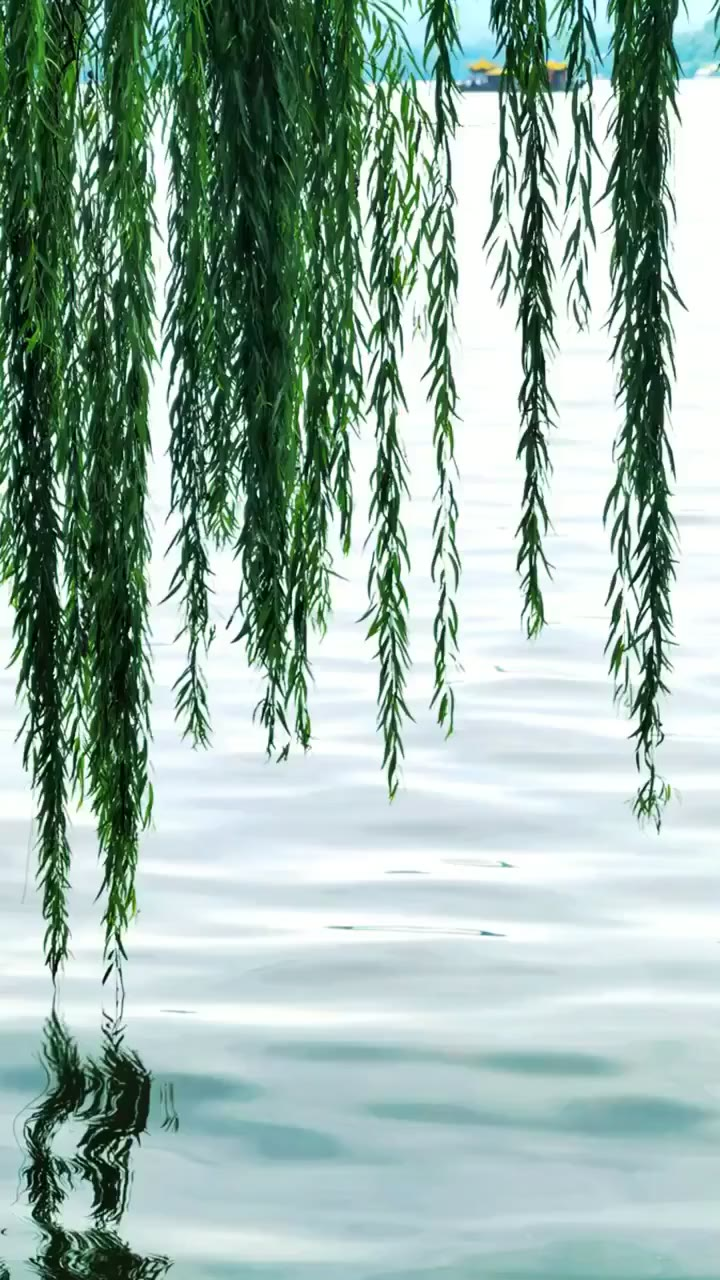
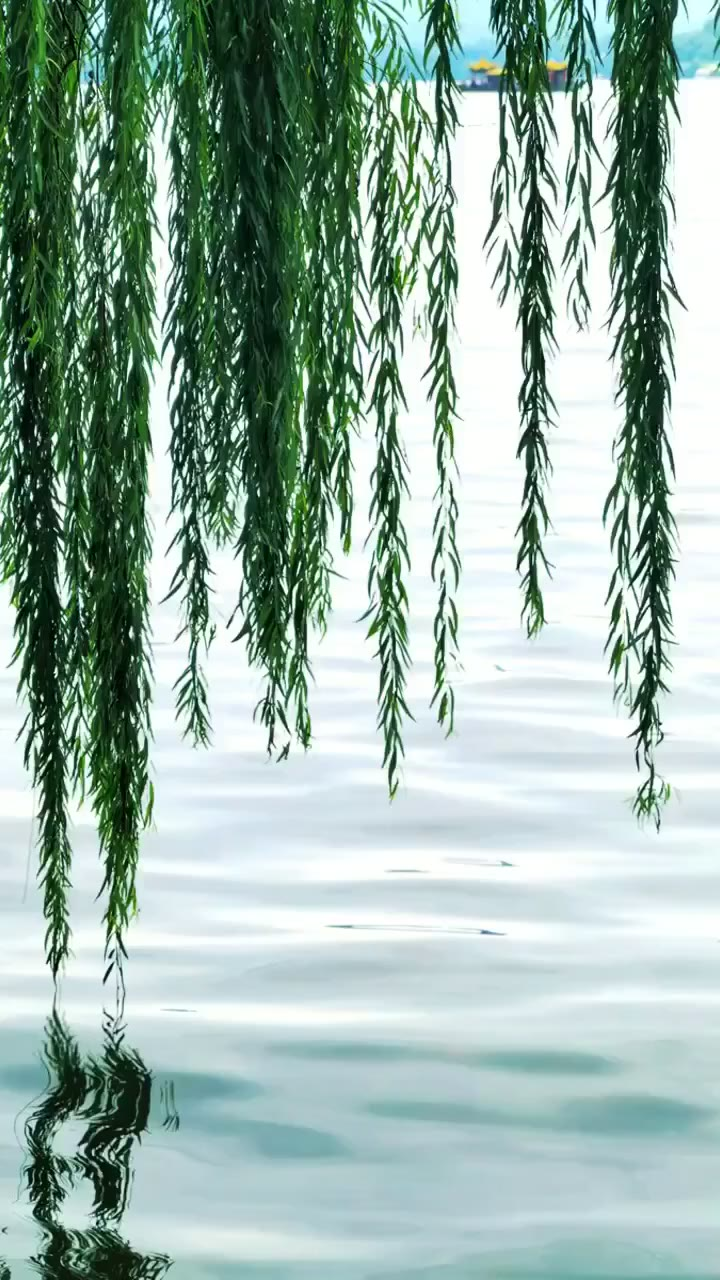
整理成片观感改动说明。
记录实拍替换、转场和连续运镜的取舍，并更新验收封面。抽帧图不入库。

diff --git a/IMPROVEMENTS.md b/IMPROVEMENTS.md
@@ -1,0 +1,134 @@
+# 本版本改进说明（相对 20260913 交接版）
+
+更新时间：2026-09-27
+打包人：浙里成片 + MPT 引擎合流小组
+
+本包 = `zhejiang-tourism-aigc-complete-20260913` 全部内容 + 以下改进。`.env` 已包含可用的 DeepSeek 与 Pexels 配置（见文末安全提醒）。
+
+## 改进清单
+
+### 1. 浙江文旅知识库（新增，本项目的差异化核心）
+
+- 新增 `data_zhejiang_kb/`：46 个杭州文旅实体、210 条经联网核查的事实
+  （景区/非遗/美食/节庆/传说/名人六类，含事实核查质量记录），
+  每个实体带 `keywords_en`（精准英文素材检索词）与 `imagery`（画面意象）。
+- 新增 `backend/app/services/knowledge.py`（纯标准库，零第三方依赖），
+  同一份语料服务两个下游方向：
+  - **管画面** `english_query()`：镜头描述 → 精准英文检索词；
+  - **管文案** `build_generation_context()`：创作参数 → 经核查的事实参考块。
+
+### 1.1 知识注入（脚本生成阶段用上知识库）
+
+此前知识库只服务素材检索，脚本阶段仍只有"不得编造"的约束而没有可用素材，
+成片文案因此**文采尚可但细节空泛**——没有可核实的年代、人物、典故。
+本次打通另一半：
+
+- `build_generation_context()` 按 `city/landmark/theme/culture/festival`
+  检索，字段权重分级（地标 4.0 > 文化线索 2.0 > 节庆 1.5 > 主题 1.0），
+  命中最具体的别名优先（"虎跑公园"不会被宽泛的"西湖"抢走）；
+  渲染成不超过 1500 字的参考块，附 4 条使用规则（优先用事实、不编造、
+  事实配画面、参考画面提示）。
+- `OpenAICompatibleLLMProvider` 注入该参考块；语料缺失、路径异常或读取出错时
+  **静默降级为空串**，prompt 退回原有约束，绝不阻断脚本生成。
+- **城市过滤是硬约束**：用户选了宁波但语料只有杭州时，退回城市背景资料，
+  而不是注入杭州事实——错误的权威事实比没有事实更糟。
+
+**A/B 实测**（deepseek-chat，杭州/西湖/春日城市漫游，同参数各 4 次采样）：
+
+| 指标 | A 无注入 | B 有注入 |
+|---|---|---|
+| 知识实体命中 | 4.75 | 6.25 |
+| 具体名词使用 | 2.5 | 17.5 |
+| 事实性表述 | 2.25 | 13.5 |
+
+分镜层面做到了"一条事实配一个画面"：南宋西湖十景配苏堤镜头、
+三潭印月石塔配湖心镜头、世界遗产名录配收尾镜头。
+复现脚本：`python scripts/kb_injection_eval.py --runs 4`。
+
+**评测口径提醒**：不要用"四位年份出现次数"做指标——模型更常用
+"天启元年""北宋苏轼元祐四年"这类中式纪年，只匹配阿拉伯数字会严重低估
+注入效果（实测会得出"0 命中"的错误结论）。
+
+### 2. Pexels 素材检索修复与增强（`providers/media.py`）
+
+- **修复 Cloudflare 拦截**：Pexels 搜索与图片下载请求补浏览器 User-Agent，
+  修复 `HTTP 403 error code 1010`（此前素材会静默回退离线占位图）。
+- **检索词精准化**：`PexelsAssetProvider` 优先使用知识库给出的英文检索词
+  （如"雷峰塔"镜头 → `Leifeng Pagoda sunset`），中文描述仅作回退。
+  实测"雷峰塔"镜头从无关野湖变为真雷峰塔西湖实景。
+
+### 3. LLM 读超时可配置（`providers/llm.py` + `config.py`）
+
+- 读超时从硬编码 45 秒改为 `LLM_TIMEOUT_SECONDS` 环境变量（默认 180）。
+  中转/慢通道生成 6 镜分镜常超 45 秒，此前必然超时回退离线。
+
+### 4. 窄屏导航修复（`frontend/styles.css`）
+
+- 窗口宽度 ≤1000px 时侧边导航原本被 `display:none` 隐藏且无替代入口，
+  导致窄窗口（应用内浏览器/分屏）无法进入"作品档案"。已改为顶部横向排列。
+
+### 5. 情绪匹配背景音乐（新增）
+
+- 曲库：MPT 自带 29 首背景音乐已拷入 `runtime/music/`，配合
+  `mood_manifest.json` 情绪清单（侧边工作线标注：calm 平静/grand 恢弘/
+  ancient 古风/poetic 诗意 四类）。
+- `find_music_file` 按 `music_mood` 自动匹配：舒缓→calm、热烈→grand、
+  雅致→ancient、轻快→poetic，同类别内随机选曲（每次成片配乐有变化）；
+  任务元数据新增 `music_file` 字段记录实际用曲。
+- 版权注意：该批音乐为 MPT 上游自带（README 标注来源 YouTube），比赛展示
+  可用，**正式对外发布前建议替换为明确授权的音乐**（放入 `runtime/music`
+  即可，命名不限；`无音乐` 选项可关闭 BGM）。
+- 之前版本的合成演示音垫（ambient_demo_synth.aac / bgm-*.aac）已移除。
+
+### 6. `.env` 已配好（开箱即用）
+
+- `LLM_BASE_URL=https://api.deepseek.com`、`LLM_MODEL=deepseek-chat`、
+  `LLM_API_KEY=已填写可用 key`；
+- `ASSET_PROVIDER=pexels` + `PEXELS_API_KEY=已填写`；
+- `MPT_ROOT` 指向同级 MoneyPrinterTurbo（可选，不部署不影响主流程）；
+- `MPT_TIMEOUT_SECONDS=600`（MPT 桥接链路实测需要较长超时）。
+
+## 快速启动
+
+```powershell
+Set-Location .\zhejiang-tourism-aigc
+# .env 已配好，如需更换 DeepSeek key 编辑 .env 的 LLM_API_KEY
+.\scripts\start.ps1
+# 浏览器打开 http://127.0.0.1:8787
+```
+
+流程：填表 → 生成脚本预览（真 DeepSeek 分镜，**已注入经核查的杭州文旅事实**）
+→ 编辑每个镜头 → 生成视频（自动 Pexels 真实素材 + Edge TTS 晓晓配音 +
+情绪匹配 BGM + FFmpeg 合成）。
+
+## 成片观感（2026-09-27）
+
+上一版验收片不能当作品看：画面是程序画的山和太阳，转场把每段首尾做成整屏黑场或白场，静图运镜用 `zoompan`，按整像素跳，看起来一卡一卡。
+
+这次只改观感，不改时长规则：
+
+- 画面改为 Pexels 实拍。六个镜头按苏堤、断桥、白堤、三潭印月、雷峰、平湖秋月分别检索，不再拿第一张无关图。
+- 转场只在镜头结尾短收，开头不再从黑场或白场淡入。仍不用跨段 `xfade`，避免总时长被叠短。
+- 静图运镜改为按时间连续推近，再裁回画面。不再使用 `zoompan`。
+- 验收成片仍锁在 30.000 秒，路径是 `runtime/media/accept_30s/final.mp4`。
+
+还没解决的：
+
+- 配音只有约 16.7 秒，后半段没有旁白。这是守住所选秒数的结果，不是字幕又错位。
+- 素材是静图缓慢推近，不是航拍，也不是云端图生视频。云端出图和出视频仍缺密钥。
+- 断桥在 Pexels 上对不准「断桥残雪」，当前用的是杭州石拱桥和游船，不能说成断桥实拍。
+
+## 安全提醒
+
+- `.env` 内含 DeepSeek 与 Pexels 的 API key，**请勿外传本包或提交到公开仓库**；
+- key 若在聊天中暴露过，建议到对应平台重置后更新 `.env`。
+
+## 已知限制
+
+- 知识库当前深度覆盖杭州（46 实体），其余 10 地市待按同结构扩充；
+  **扩充时务必沿用事实核查流程**（`_meta.json` 记录了核查口径），
+  未核查的内容注入 prompt 会变成"权威的错误"；
+- 知识注入的效果依赖 LLM 是否愿意用事实：实测 deepseek-chat 表现良好，
+  但换用弱模型时可能仍写得空泛——此时可在"补充要求"里明确点名要用的典故；
+- Pexels 为图片素材（静态图+转场），实拍视频镜头建议用"每镜头上传素材"；
+- 背景 music 需上传授权音乐或放入 `runtime/music`。
